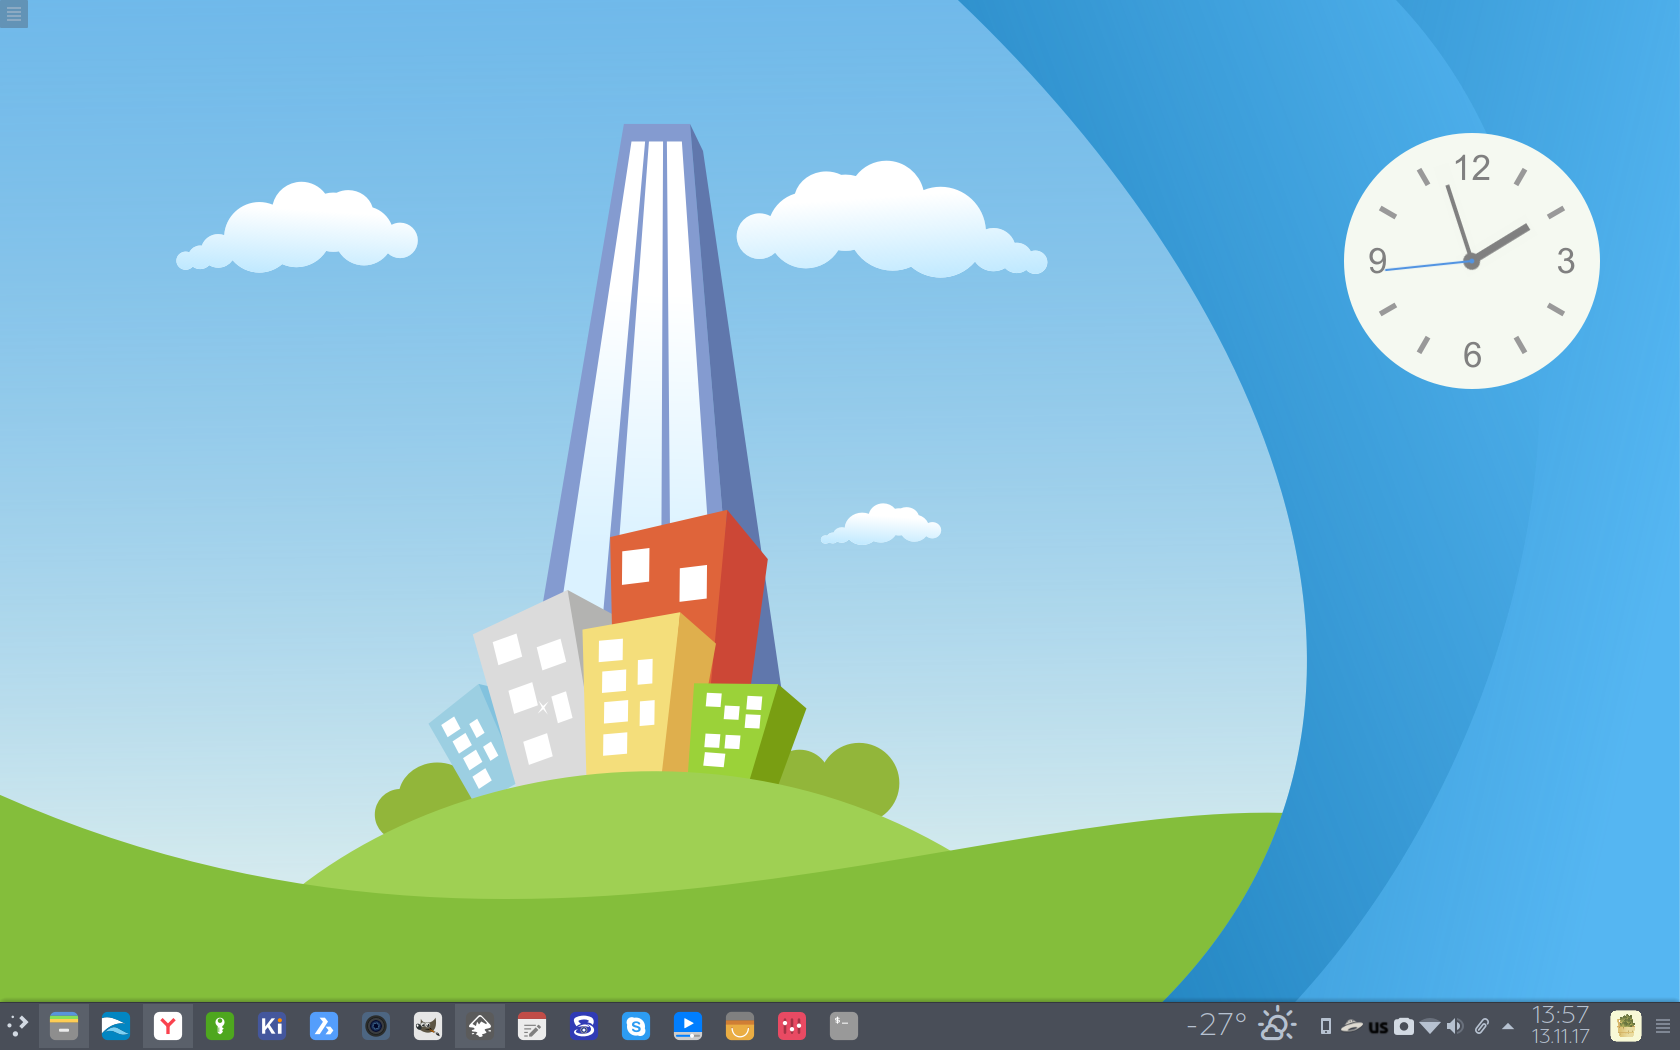
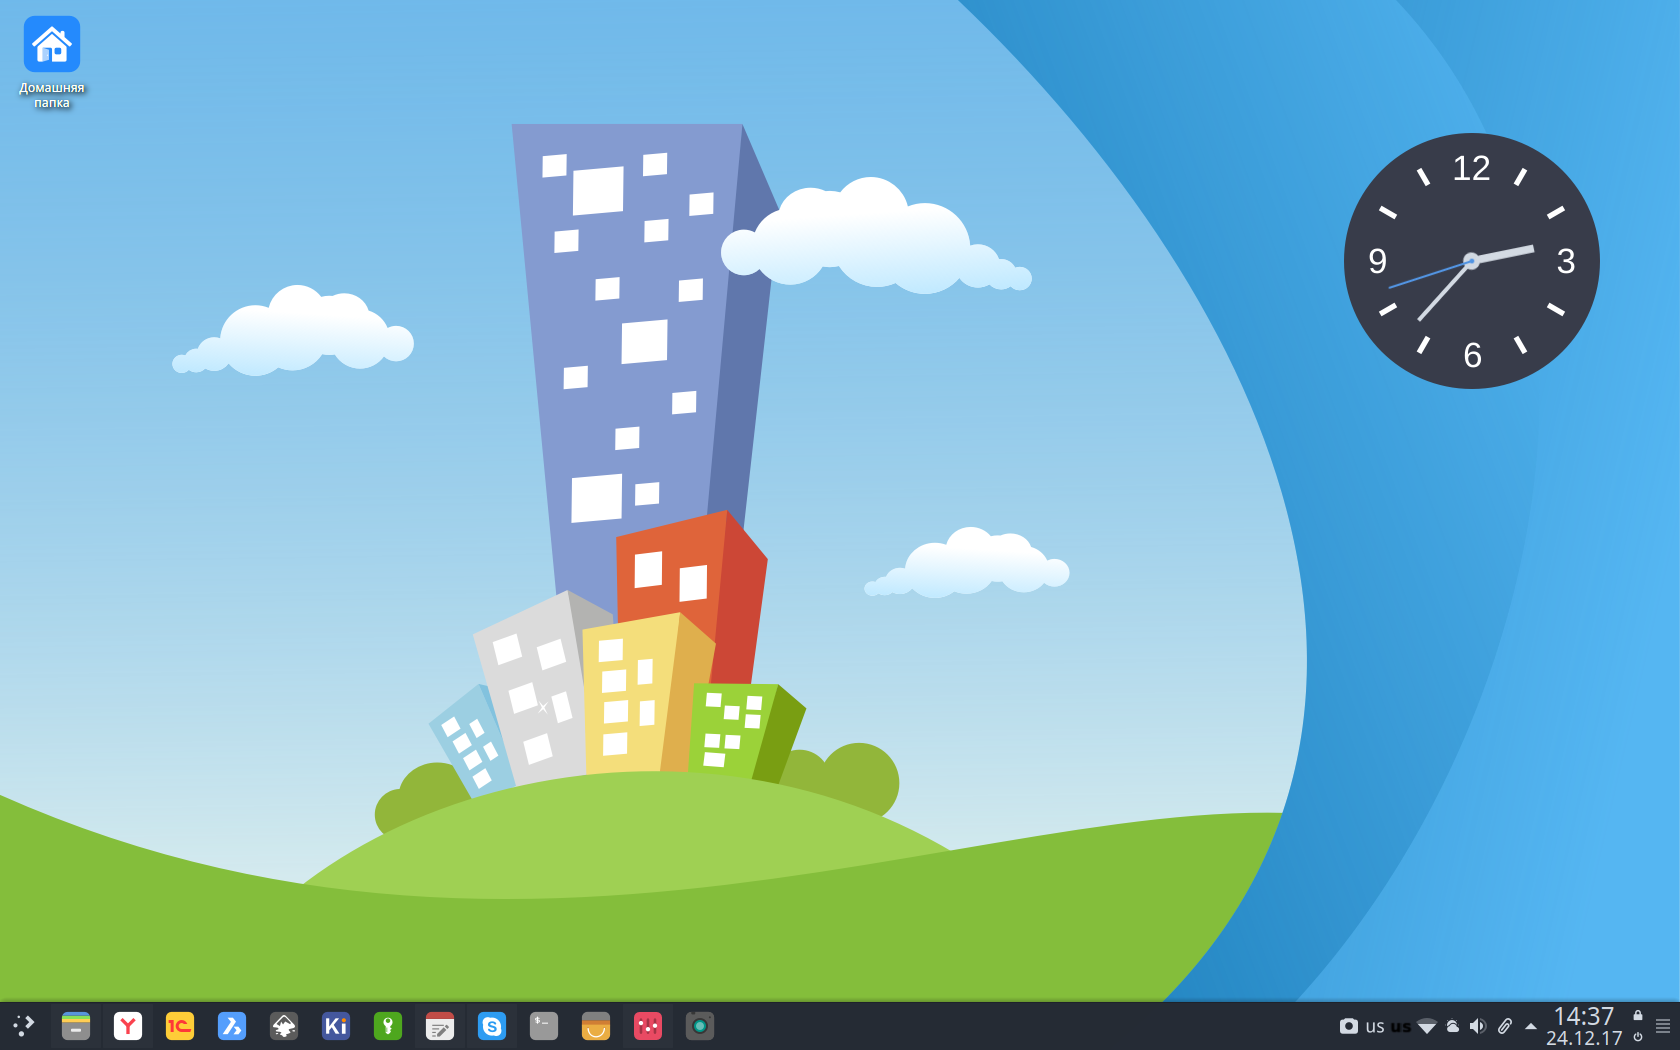
Add project

diff --git a/README.md b/README.md
@@ -6,7 +6,7 @@ plasma5-desktoptheme-neru-city
 ## Изображение (может немного отличатся от оригинала)
 
 ![Screenshot](screenshot.png)
-
+![Screenshot](screenshot2.png)
 ## Особенности
 
 * Белая тема
